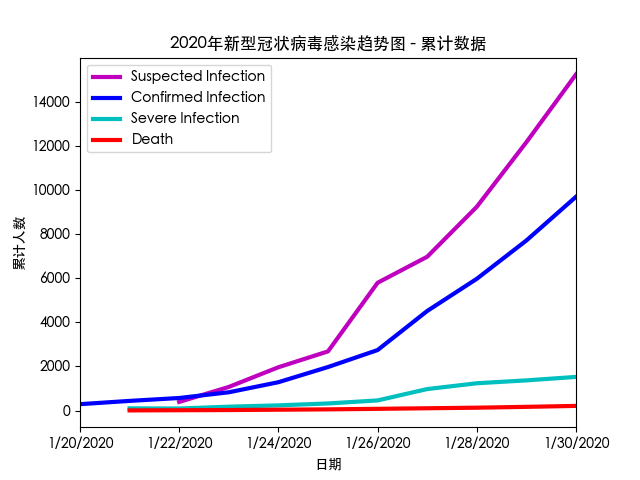
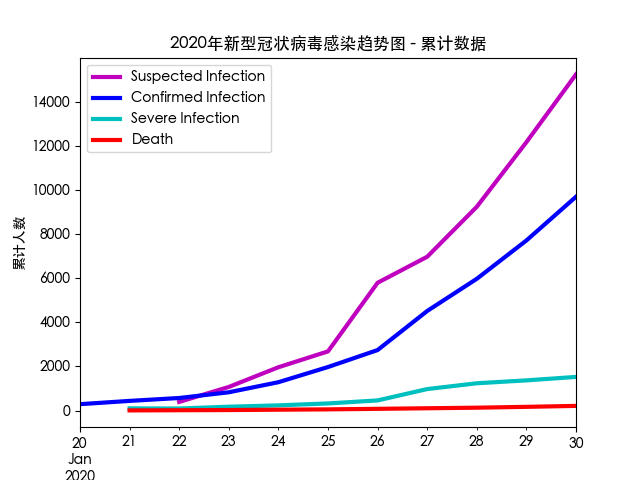
Update pandas script to successfully produce 3 charts

Changed region(s): [[0.0625, 0.9062, 0.9688, 1.0]]

diff --git a/scripts/plot_chart.py b/scripts/plot_chart.py
@@ -3,21 +3,42 @@ import pandas as pd
 import matplotlib.pyplot as plt
 import matplotlib.dates as mdates
 
-lifeToDate = pd.read_csv('../data/pandemic2020.csv')
+df = pd.read_csv(
+	'../data/pandemic2020.csv',
+	dtype={
+		'Close Contact': 'float',
+		'In Treatment': 'float',
+		'Suspected Infection': 'float',
+		'Confirmed Infection': 'float',
+		'Severe Infection': 'float',
+		'Death': 'float',
+		'Cured': 'float'
+		}
+	)
+df['Date'] = pd.to_datetime(df['Date'])
 
-netNew = lifeToDate.set_index('Date').diff()
-# print(netNew)
+# print(df)
+# print(df.dtypes)
+
+df['Close Contact New'] = df['Close Contact'].diff()
+df['In Treatment New'] = df['In Treatment'].diff()
+df['Suspected Infection New'] = df['Suspected Infection'].diff()
+df['Confirmed Infection New'] = df['Confirmed Infection'].diff()
+df['Severe Infection New'] = df['Severe Infection'].diff()
+df['Death New'] = df['Death'].diff()
+df['Cured New'] = df['Cured'].diff()
+
+# print(df)
+
+# print(df.dtypes)
 
 plt.rcParams["font.family"]= "Heiti TC"
 
 # m: magenta, b: blue, c: cyan, r: red
 
+# ------------ Plot Life-To-Date Chart for the Big 4 --------------------------
 
-# set daily locator
-# chart.xaxis.set_major_locator(mdates.DayLocator(interval=1))
-# chart.xaxis.set_major_formatter(mdates.DateFormatter('%d-%m'))
-
-chartLTD = lifeToDate.plot(
+fig = df.plot(
 	x='Date', 
 	y=['Suspected Infection', 'Confirmed Infection', 'Severe Infection','Death'],
 	style=['m', 'b', 'c', 'r'],
@@ -26,18 +47,44 @@ chartLTD = lifeToDate.plot(
 plt.title('2020年新型冠状病毒感染趋势图 - 累计数据')
 plt.xlabel('日期')
 plt.ylabel('累计人数')
+# fig.xaxis.set_major_locator(mdates.DayLocator(interval=1))
+# fig.xaxis.set_major_formatter(mdates.DateFormatter('%m/%d'))
 # plt.show()
 plt.savefig('../charts/chart_big_4_ltd.png')
 plt.close()
 
-# chartNW = netNew.plot(
-# 	x='Date', 
-# 	y=['Suspected Infection', 'Confirmed Infection', 'Severe Infection','Death'],
-# 	style=['m', 'b', 'c', 'r'],
-# 	linewidth=3
-# )
-# plt.title('2020年新型冠状病毒感染趋势图 - 每日新增数据')
-# plt.xlabel('日期')
-# plt.ylabel('新增人数')
+# ------------ Plot Daily Net New Chart for the Big 4 -------------------------
+
+df.plot(
+	x='Date', 
+	y=['Suspected Infection New', 'Confirmed Infection New', 'Severe Infection New','Death New'],
+	style=['m', 'b', 'c', 'r'],
+	linewidth=3
+)
+plt.title('2020年新型冠状病毒感染趋势图 - 每日新增')
+plt.xlabel('日期')
+plt.ylabel('新增人数')
+# fig.xaxis.set_major_locator(mdates.DayLocator(interval=2))
+# fig.xaxis.set_major_formatter(mdates.DateFormatter('%m-%d'))
 # plt.show()
-# plt.savefig('../charts/chart_big_4_net_new.png')
+plt.savefig('../charts/chart_big_4_net_new.png')
+plt.close()
+
+# ------------ Plot Life-to-Date for Death and Cured --------------------------
+
+df.plot(
+	x='Date', 
+	y=['Death', 'Cured'],
+	style=['r', 'g'],
+	linewidth=3
+)
+plt.title('2020年新型冠状病毒感染趋势图 - 死亡和治愈')
+plt.xlabel('日期')
+plt.ylabel('累计人数')
+# fig.xaxis.set_major_locator(mdates.DayLocator(interval=3))
+# fig.xaxis.set_major_formatter(mdates.DateFormatter('%m%d'))
+# plt.show()
+plt.savefig('../charts/chart_DnC_LTD.png')
+plt.close()
+
+
